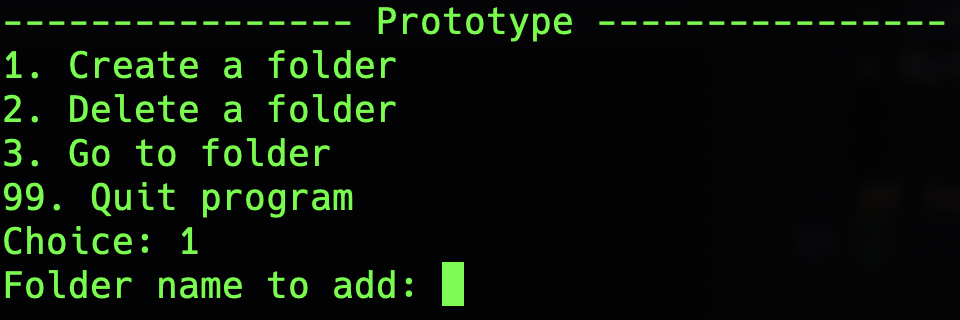
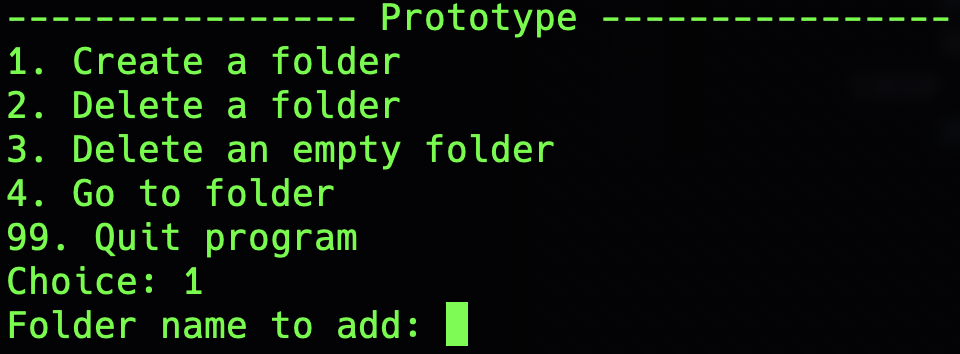
feat(tom mapper): legg til fjerning av tom mapper
Da unngår vi uønsket data loss - rmdir gir error hvis ikke tom automatisk

Changed region(s): [[0.0, 0.125, 0.5938, 1.0], [0.0, 0.0, 1.0, 0.125]]

diff --git a/modules/handler.py b/modules/handler.py
@@ -1,6 +1,6 @@
 import sys
 
-from modules.dirs import create_dir, remove_dir, change_cd
+from modules.dirs import *
 
 
 def handle_empty_name(name: str):
@@ -23,6 +23,9 @@ def handle_answers() -> None:
             dir_name: str = input("Folder name to delete: ")
             remove_dir(dir_name)
         case 3:
+            dir_name: str = input("Empty folder name to delete: ")
+            remove_empty_dir(dir_name)
+        case 4:
             existing_dir: str = input("Existing folder name: ")
             change_cd(existing_dir)
         case 99:

diff --git a/modules/dirs.py b/modules/dirs.py
@@ -20,6 +20,12 @@ def remove_dir(dir_name: str) -> None:
     run_cmd(f"rm -r {dir_name}")
     list_dir_helper()
 
+def remove_empty_dir(dir_name: str) -> None:
+    from modules.handler import handle_empty_name
+    handle_empty_name(dir_name)
+    run_cmd(f"rmdir {dir_name}")
+    list_dir_helper()
+
 
 def change_cd(existing_dir: str) -> None:
     from modules.handler import handle_empty_name

diff --git a/main.py b/main.py
@@ -5,7 +5,8 @@ def main() -> None:
     print(f"\n{"-"*16} Prototype {"-"*16}")
     print("1. Create a folder")
     print("2. Delete a folder")
-    print("3. Go to folder")
+    print("3. Delete an empty folder")
+    print("4. Go to folder")
     print("99. Quit program")
     # list_dir_helper()
     handle_answers()
